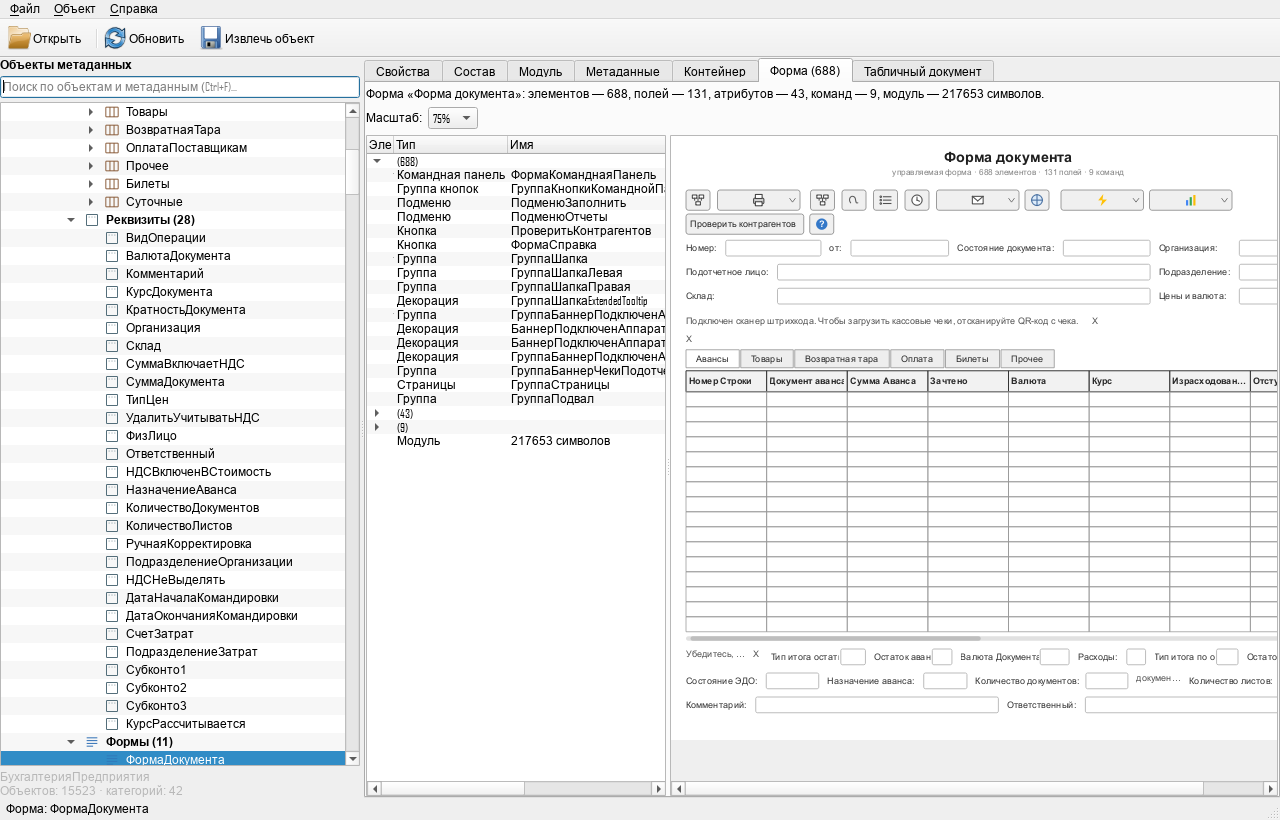
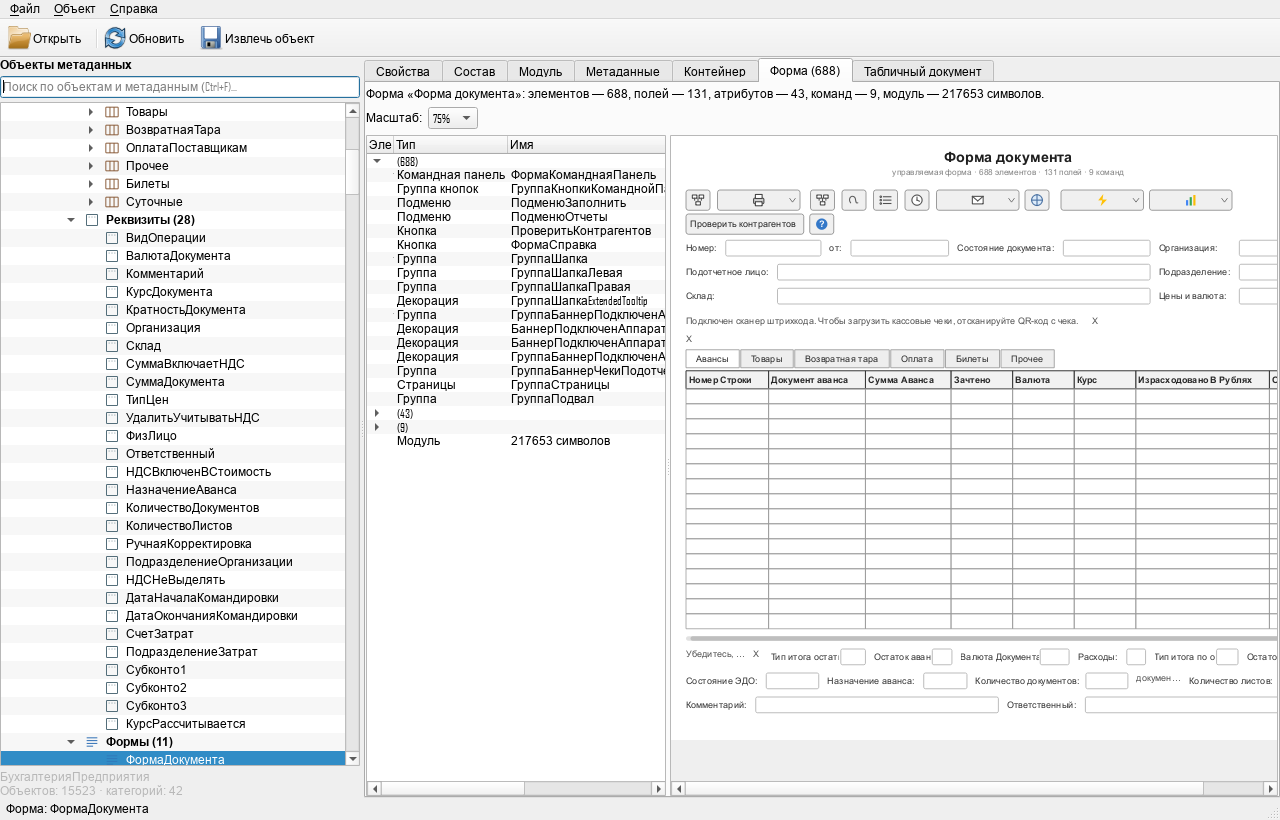
feat(forms): content-based table columns and layout polish
- table column widths by header content (min 80), stretch when they fit,
  horizontal scrollbar when they do not; header 24 px, rows 20 px
- final list/document form screenshots
- research: Width/Height/Stretch not decodable from scalar nodes yet,
  exact mapping needs Form.xml

Changed region(s): [[0.5312, 0.4573, 1.0, 0.7927]]

diff --git a/src/gui/FormView.cpp b/src/gui/FormView.cpp
@@ -47,6 +47,7 @@ struct PreviewControl
     QRectF rect;
     QString title;
     QStringList columns;
+    QVector<double> columnWidths;
     double labelWidth = 0.0;
     bool selectedTab = false;
     bool checkBox = false;
@@ -703,6 +704,26 @@ private:
         control.rect = QRectF(rect.left(), rect.top(), rect.width(),
                               std::min(rect.height(), 360.0));
         tableColumns(item, item.name, &control.columns);
+
+        if (!control.columns.isEmpty()) {
+            QFont headerFont = m_font;
+            headerFont.setBold(true);
+            QFontMetricsF headerMetrics(headerFont);
+            double total = 0.0;
+            for (const QString &column : control.columns) {
+                const double width = std::min(240.0, std::max(80.0,
+                    headerMetrics.horizontalAdvance(column) + 24.0));
+                control.columnWidths.append(width);
+                total += width;
+            }
+            // Если колонки уже помещаются — растягиваем их на всю таблицу;
+            // иначе оставляем ширину по содержимому и показываем прокрутку.
+            if (total < control.rect.width()) {
+                const double extra = (control.rect.width() - total) / control.columnWidths.size();
+                for (double &width : control.columnWidths)
+                    width += extra;
+            }
+        }
         m_controls->append(control);
     }
 
@@ -1056,9 +1077,13 @@ void paintControl(QPainter &painter, const PreviewControl &control,
         const QStringList columns = control.columns;
         if (columns.isEmpty())
             return;
-        const int visible = std::min(9, int(columns.size()));
-        const double columnWidth = rect.width() / visible;
-        const double headerHeight = 28.0;
+        QVector<double> widths = control.columnWidths;
+        if (widths.size() != columns.size()) {
+            widths.clear();
+            for (int i = 0; i < columns.size(); ++i)
+                widths.append(rect.width() / columns.size());
+        }
+        const double headerHeight = 24.0;
         const QRectF header(rect.left(), rect.top(), rect.width(), headerHeight);
         painter.setPen(QColor(150, 150, 150));
         painter.setBrush(QColor(242, 242, 242));
@@ -1068,25 +1093,28 @@ void paintControl(QPainter &painter, const PreviewControl &control,
         headerFont.setBold(true);
         painter.setFont(headerFont);
         painter.setPen(QColor(40, 40, 40));
-        for (int i = 0; i < visible; ++i) {
-            const QRectF cell(rect.left() + i * columnWidth, rect.top(),
-                              columnWidth, headerHeight);
+        double columnX = rect.left();
+        for (int i = 0; i < columns.size() && columnX < rect.right(); ++i) {
+            const double width = widths.at(i);
+            const QRectF cell(columnX, rect.top(), width, headerHeight);
             painter.drawRect(cell);
             const QString text = metrics.elidedText(columns.at(i), Qt::ElideRight,
-                                                    int(columnWidth) - 8);
+                                                    int(width) - 8);
             painter.drawText(cell.adjusted(4, 0, -4, 0),
                              Qt::AlignLeft | Qt::AlignVCenter, text);
+            columnX += width;
         }
         painter.setFont(font);
         painter.setPen(QColor(150, 150, 150));
         const double rowHeight = 20.0;
         const int rows = std::max(1, int((rect.height() - headerHeight) / rowHeight));
         for (int row = 0; row < rows; ++row) {
-            for (int i = 0; i < visible; ++i) {
-                const QRectF cell(rect.left() + i * columnWidth,
-                                  rect.top() + headerHeight + row * rowHeight,
-                                  columnWidth, rowHeight);
+            double x = rect.left();
+            for (int i = 0; i < widths.size() && x < rect.right(); ++i) {
+                const QRectF cell(x, rect.top() + headerHeight + row * rowHeight,
+                                  widths.at(i), rowHeight);
                 painter.drawRect(cell);
+                x += widths.at(i);
             }
         }
 
@@ -1095,7 +1123,12 @@ void paintControl(QPainter &painter, const PreviewControl &control,
         painter.setPen(Qt::NoPen);
         painter.setBrush(QColor(225, 225, 225));
         painter.drawRoundedRect(track, 3.0, 3.0);
-        const double thumbWidth = rect.width() * 0.45;
+        double columnsTotal = 0.0;
+        for (double width : widths)
+            columnsTotal += width;
+        const double thumbWidth = columnsTotal > rect.width()
+            ? std::max(30.0, rect.width() * rect.width() / columnsTotal)
+            : rect.width() - 12.0;
         painter.setBrush(QColor(190, 190, 190));
         painter.drawRoundedRect(QRectF(track.left() + 6.0, track.top(),
                                        thumbWidth, track.height()), 3.0, 3.0);

diff --git a/README.md b/README.md
@@ -84,7 +84,8 @@
 ![Форма списка](docs/screenshot-form.png)
 
 Вкладка «Форма» на примере формы списка «Авансовый отчет»: быстрые отборы,
-командная панель с иконками команд, таблица с колонками и масштаб 50–150%.
+командная панель с иконками команд, таблица с колонками по содержимому и
+масштаб 50–150%.
 
 ![Форма документа](docs/screenshot-form-document.png)
 
